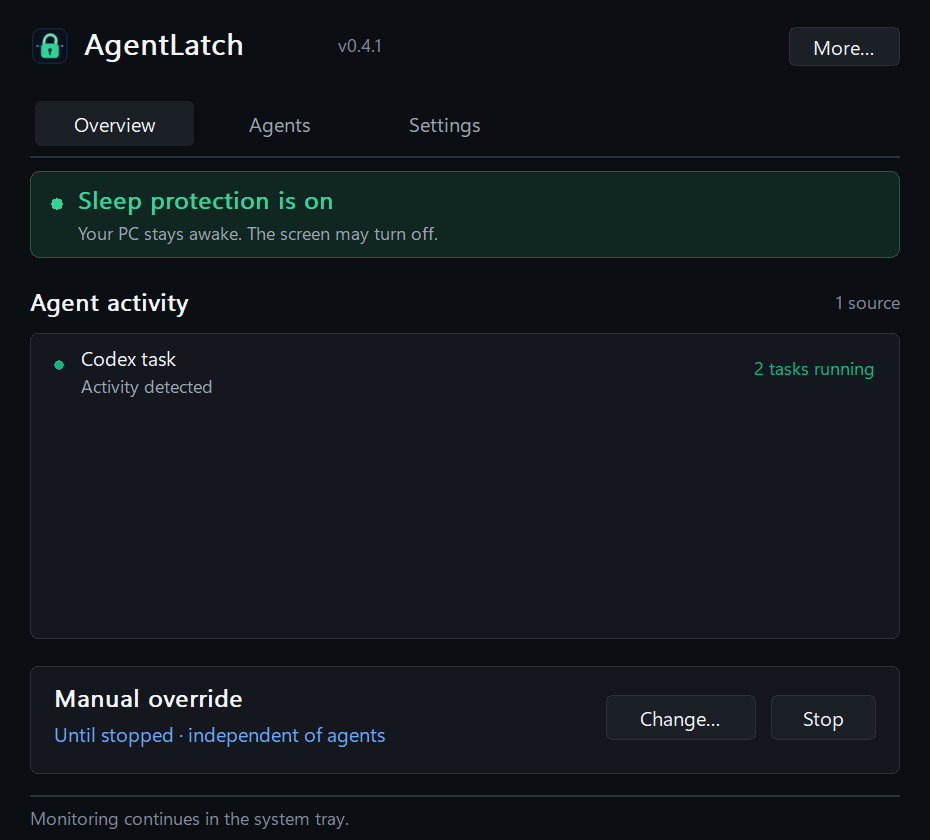
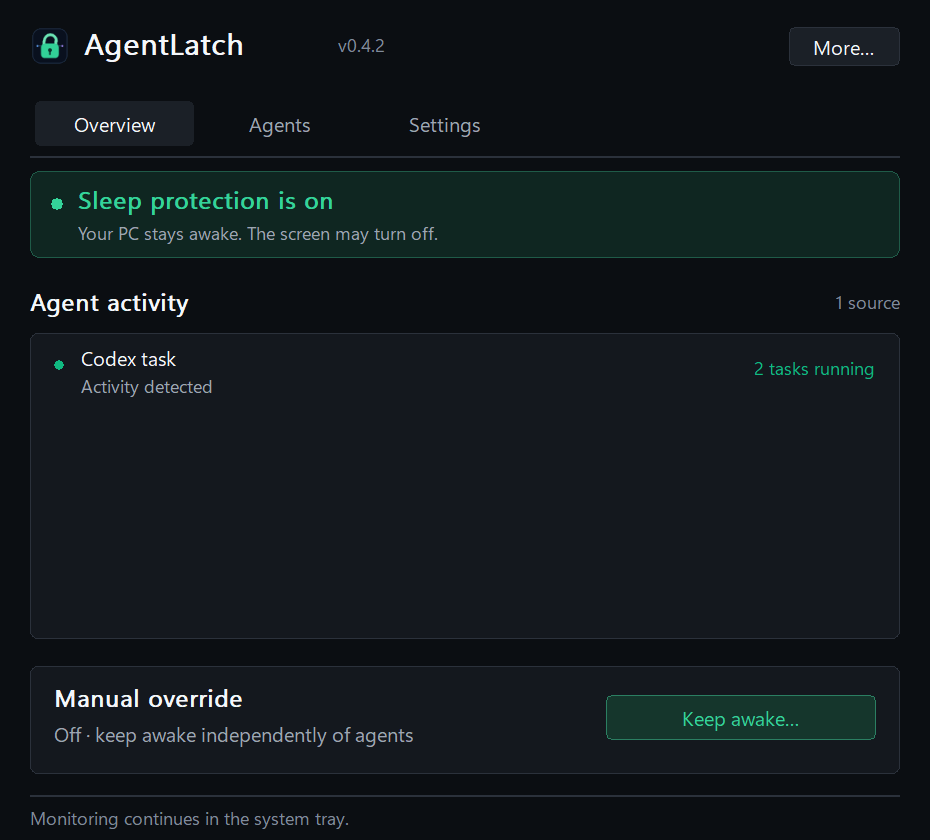
Reset manual override across Windows restarts (#15)

Changed region(s): [[0.0624, 0.8667, 0.4366, 0.8976], [0.686, 0.8048, 0.9043, 0.8976]]

diff --git a/src/settings.cpp b/src/settings.cpp
@@ -8,6 +8,8 @@ namespace agent_latch {
 namespace {
 
 constexpr wchar_t kSettingsKey[] = L"Software\\AgentLatch";
+constexpr wchar_t kManualSessionKey[] = L"ManualSession";
+constexpr wchar_t kManualSessionValue[] = L"UntilUtc";
 constexpr wchar_t kRunKey[] = L"Software\\Microsoft\\Windows\\CurrentVersion\\Run";
 constexpr wchar_t kRunValue[] = L"AgentLatch";
 
@@ -55,6 +57,8 @@ bool WriteDword(HKEY key, const wchar_t* name, DWORD value) {
 }  // namespace
 
 bool Settings::Load() {
+    manual_keep_awake = false;
+    manual_end_utc_milliseconds = 0;
     HKEY key = nullptr;
     const LSTATUS result = RegOpenKeyExW(HKEY_CURRENT_USER, kSettingsKey, 0, KEY_QUERY_VALUE, &key);
     if (result == ERROR_FILE_NOT_FOUND) {
@@ -69,11 +73,17 @@ bool Settings::Load() {
     ULONGLONG manual_value = 0;
     DWORD end_type = 0;
     DWORD end_size = sizeof(manual_value);
-    if (RegQueryValueExW(key, L"ManualKeepAwakeUntilUtc", nullptr, &end_type,
+    // Never restore the legacy permanent value: its boot cannot be established.
+    // A volatile child survives app restarts, but not a Windows restart/hive unload.
+    HKEY manual_key = nullptr;
+    const LSTATUS manual_result = RegOpenKeyExW(key, kManualSessionKey, 0, KEY_QUERY_VALUE, &manual_key);
+    if (manual_result == ERROR_SUCCESS &&
+        (RegQueryValueExW(manual_key, kManualSessionValue, nullptr, &end_type,
                         reinterpret_cast<BYTE*>(&manual_value), &end_size) != ERROR_SUCCESS ||
-        end_type != REG_QWORD || end_size != sizeof(manual_value)) {
+        end_type != REG_QWORD || end_size != sizeof(manual_value))) {
         manual_value = 0;
     }
+    if (manual_key != nullptr) { RegCloseKey(manual_key); }
     manual_keep_awake = manual_value != 0;
     manual_end_utc_milliseconds = manual_value > 1 ? manual_value : 0;
     codex_mode = ReadDetectionMode(key, L"ModeCodex", L"DetectCodex", codex_mode);
@@ -87,7 +97,7 @@ bool Settings::Load() {
     claude_integration_expected = ReadDword(key, L"IntegrationExpectedClaude", 0) != 0;
     claude_hook_seen = ReadDword(key, L"HookSeenClaude", 0) != 0;
     RegCloseKey(key);
-    return true;
+    return manual_result == ERROR_SUCCESS || manual_result == ERROR_FILE_NOT_FOUND;
 }
 
 bool Settings::Save() const {
@@ -99,7 +109,7 @@ bool Settings::Save() const {
             0,
             nullptr,
             REG_OPTION_NON_VOLATILE,
-            KEY_SET_VALUE,
+            KEY_SET_VALUE | KEY_CREATE_SUB_KEY,
             nullptr,
             &key,
             &disposition) != ERROR_SUCCESS) {
@@ -109,12 +119,21 @@ bool Settings::Save() const {
     bool result = true;
     result = WriteDword(key, L"KeepDisplayOn", keep_display_on ? 1u : 0u) && result;
     result = WriteDword(key, L"Notifications", notifications ? 1u : 0u) && result;
-    // One registry value avoids a crash between separate enabled/deadline writes.
-    // 0 = off, 1 = indefinite, otherwise an absolute FILETIME-epoch millisecond end.
+    // Keep the old permanent slot disabled, including for older app versions.
+    const ULONGLONG disabled = 0;
+    result = RegSetValueExW(key, L"ManualKeepAwakeUntilUtc", 0, REG_QWORD,
+        reinterpret_cast<const BYTE*>(&disabled), sizeof(disabled)) == ERROR_SUCCESS && result;
+    // One value avoids separate enabled/deadline writes. The volatile key, not a
+    // wall-clock/uptime heuristic or a shutdown callback, supplies restart reset.
     const ULONGLONG manual_value = !manual_keep_awake ? 0 :
         manual_end_utc_milliseconds == 0 ? 1 : manual_end_utc_milliseconds;
-    result = RegSetValueExW(key, L"ManualKeepAwakeUntilUtc", 0, REG_QWORD,
-        reinterpret_cast<const BYTE*>(&manual_value), sizeof(manual_value)) == ERROR_SUCCESS && result;
+    HKEY manual_key = nullptr;
+    if (RegCreateKeyExW(key, kManualSessionKey, 0, nullptr, REG_OPTION_VOLATILE,
+                        KEY_SET_VALUE, nullptr, &manual_key, nullptr) == ERROR_SUCCESS) {
+        result = RegSetValueExW(manual_key, kManualSessionValue, 0, REG_QWORD,
+            reinterpret_cast<const BYTE*>(&manual_value), sizeof(manual_value)) == ERROR_SUCCESS && result;
+        RegCloseKey(manual_key);
+    } else { result = false; }
     result = WriteDword(key, L"ModeCodex", static_cast<DWORD>(codex_mode)) && result;
     result = WriteDword(key, L"ModeClaude", static_cast<DWORD>(claude_mode)) && result;
     result = WriteDword(key, L"ModeCursor", static_cast<DWORD>(cursor_mode)) && result;
@@ -151,6 +170,84 @@ bool Settings::RefreshIntegrationStatus() {
     claude_hook_seen = ReadDword(key, L"HookSeenClaude", 0) != 0;
     RegCloseKey(key);
     return true;
+}
+
+bool RunSettingsSelfTests() {
+    // Redirect HKCU only in this self-test process. Never touch live app settings.
+    const std::wstring test_path = L"Software\\AgentLatch.SettingsTest." +
+        std::to_wstring(GetCurrentProcessId()) + L"." + std::to_wstring(GetTickCount64());
+    HKEY test_root = nullptr;
+    DWORD disposition = 0;
+    if (RegCreateKeyExW(HKEY_CURRENT_USER, test_path.c_str(), 0, nullptr,
+        REG_OPTION_NON_VOLATILE, KEY_ALL_ACCESS, nullptr, &test_root, &disposition) != ERROR_SUCCESS) { return false; }
+    if (disposition != REG_CREATED_NEW_KEY) { RegCloseKey(test_root); return false; }
+    if (RegOverridePredefKey(HKEY_CURRENT_USER, test_root) != ERROR_SUCCESS) {
+        RegCloseKey(test_root); RegDeleteTreeW(HKEY_CURRENT_USER, test_path.c_str()); return false;
+    }
+    const bool valid = []() {
+        HKEY key = nullptr;
+        if (RegCreateKeyExW(HKEY_CURRENT_USER, kSettingsKey, 0, nullptr, REG_OPTION_NON_VOLATILE,
+            KEY_ALL_ACCESS, nullptr, &key, nullptr) != ERROR_SUCCESS) { return false; }
+        const ULONGLONG legacy = 1;
+        bool success = RegSetValueExW(key, L"ManualKeepAwakeUntilUtc", 0, REG_QWORD,
+            reinterpret_cast<const BYTE*>(&legacy), sizeof(legacy)) == ERROR_SUCCESS;
+        RegCloseKey(key);
+        Settings original;
+        success = original.Load() && !original.manual_keep_awake && success;
+        original.manual_keep_awake = true;
+        original.claude_mode = DetectionMode::Off;
+        original.notifications = false;
+        success = original.Save() && success;
+        Settings app_restart;
+        success = app_restart.Load() && app_restart.manual_keep_awake &&
+            app_restart.manual_end_utc_milliseconds == 0 &&
+            app_restart.claude_mode == DetectionMode::Off && !app_restart.notifications && success;
+
+        HKEY manual_key = nullptr;
+        if (RegOpenKeyExW(HKEY_CURRENT_USER, L"Software\\AgentLatch\\ManualSession", 0,
+            KEY_ALL_ACCESS, &manual_key) != ERROR_SUCCESS) { return false; }
+        HKEY probe = nullptr;
+        // Windows rejects a nonvolatile child under a genuinely volatile key.
+        const LSTATUS probe_result = RegCreateKeyExW(manual_key, L"NonVolatileProbe", 0, nullptr,
+            REG_OPTION_NON_VOLATILE, KEY_SET_VALUE, nullptr, &probe, nullptr);
+        if (probe != nullptr) { RegCloseKey(probe); }
+        success = probe_result == ERROR_CHILD_MUST_BE_VOLATILE && success;
+        const DWORD malformed = 1;
+        success = RegSetValueExW(manual_key, kManualSessionValue, 0, REG_DWORD,
+            reinterpret_cast<const BYTE*>(&malformed), sizeof(malformed)) == ERROR_SUCCESS && success;
+        RegCloseKey(manual_key);
+        success = app_restart.Load() && !app_restart.manual_keep_awake && success;
+
+        original.manual_end_utc_milliseconds = 123456789;
+        success = original.Save() && app_restart.Load() && app_restart.manual_keep_awake &&
+            app_restart.manual_end_utc_milliseconds == original.manual_end_utc_milliseconds && success;
+        // Model Windows discarding only volatile session data, not preferences.
+        if (RegOpenKeyExW(HKEY_CURRENT_USER, kSettingsKey, 0, KEY_ALL_ACCESS, &key) != ERROR_SUCCESS) { return false; }
+        success = RegDeleteTreeW(key, kManualSessionKey) == ERROR_SUCCESS && success;
+        RegCloseKey(key);
+        success = app_restart.Load() && !app_restart.manual_keep_awake &&
+            app_restart.manual_end_utc_milliseconds == 0 &&
+            app_restart.claude_mode == DetectionMode::Off && !app_restart.notifications && success;
+        original.manual_end_utc_milliseconds = 0;
+        success = original.Save() && app_restart.Load() && app_restart.manual_keep_awake && success;
+        if (RegOpenKeyExW(HKEY_CURRENT_USER, kSettingsKey, 0, KEY_ALL_ACCESS, &key) != ERROR_SUCCESS) { return false; }
+        ULONGLONG legacy_disabled = 99;
+        DWORD legacy_size = sizeof(legacy_disabled);
+        success = RegGetValueW(key, nullptr, L"ManualKeepAwakeUntilUtc", RRF_RT_REG_QWORD, nullptr,
+            &legacy_disabled, &legacy_size) == ERROR_SUCCESS && legacy_disabled == 0 && success;
+        success = RegDeleteTreeW(key, kManualSessionKey) == ERROR_SUCCESS && success;
+        success = RegSetValueExW(key, L"ManualKeepAwakeUntilUtc", 0, REG_QWORD,
+            reinterpret_cast<const BYTE*>(&legacy), sizeof(legacy)) == ERROR_SUCCESS && success;
+        RegCloseKey(key);
+        success = app_restart.Load() && !app_restart.manual_keep_awake && success;
+        original.manual_keep_awake = false;
+        success = original.Save() && app_restart.Load() && !app_restart.manual_keep_awake && success;
+        return success;
+    }();
+    const bool restored = RegOverridePredefKey(HKEY_CURRENT_USER, nullptr) == ERROR_SUCCESS;
+    RegCloseKey(test_root);
+    const bool cleaned = restored && RegDeleteTreeW(HKEY_CURRENT_USER, test_path.c_str()) == ERROR_SUCCESS;
+    return valid && restored && cleaned;
 }
 
 bool Settings::MarkHookSeen(Provider provider) {

diff --git a/src/ui.cpp b/src/ui.cpp
@@ -98,7 +98,7 @@ std::wstring LatchSecondaryText(const Latch& latch, ULONGLONG now) {
         return L"Releasing in " + FormatDuration(latch.expires_at > now ? latch.expires_at - now : 0);
     }
     if (latch.kind == LatchKind::Manual) {
-        return L"Until stopped";
+        return L"Until Windows restarts";
     }
     if (latch.kind == LatchKind::Hook) {
         return latch.instance_count > 1 ? std::to_wstring(latch.instance_count) + L" active" : L"Active";
@@ -399,7 +399,7 @@ bool DashboardControls::Initialize(HWND parent, UINT dpi) {
         L"Keep the screen on while protected", L"Start AgentLatch when I sign in", L"Show status notifications"};
     const std::array<const wchar_t*, 3> hints = {
         L"Off lets the display turn off. Your PC still stays awake.",
-        L"Monitor agents and restore saved manual sessions at sign-in.",
+        L"Start monitoring automatically when you sign in.",
         L"Optional wake alerts. Protection failures always notify you."};
     for (int index = 0; index < 3; ++index) {
         const int top = 246 + index * 68;
@@ -527,7 +527,7 @@ void DashboardControls::Update(const DashboardState& state) {
     } else { detail = L"Normal sleep settings apply. Enabled agents are being monitored."; }
     TextValue(kStatusDetail, detail);
     TextValue(kManualStatus, !state_.manual_active ? L"Off · keep awake independently of agents" :
-        (state_.manual_deadline == 0 ? L"Until stopped" : FormatCountdown(state_.manual_deadline, state_.now)) +
+        (state_.manual_deadline == 0 ? L"Until Windows restarts" : FormatCountdown(state_.manual_deadline, state_.now)) +
             std::wstring(L" · independent of agents"));
     TextValue(kManualStart, state_.manual_active ? L"Change…" : L"Keep awake…");
     TextValue(kEmptyHint, state_.manual_active ? L"Manual override is keeping your PC awake." : L"Agent activity will appear here when detected.");

diff --git a/src/app.cpp b/src/app.cpp
@@ -410,7 +410,7 @@ void AgentLatchApp::StartManualSession(unsigned int hours) {
 void AgentLatchApp::ShowManualMenu() {
     HMENU menu = CreatePopupMenu();
     if (menu == nullptr) { return; }
-    AppendMenuW(menu, MF_STRING, 1, L"Until stopped");
+    AppendMenuW(menu, MF_STRING, 1, L"Until Windows restarts");
     AppendMenuW(menu, MF_SEPARATOR, 0, nullptr);
     constexpr std::array<unsigned int, 6> hours = {1, 2, 4, 8, 12, 24};
     for (unsigned int duration : hours) {

diff --git a/src/settings.h b/src/settings.h
@@ -45,5 +45,6 @@ const wchar_t* DetectionModeLabel(DetectionMode mode);
 
 bool IsStartWithWindowsEnabled();
 bool SetStartWithWindows(bool enabled, const std::wstring& executable_path);
+bool RunSettingsSelfTests();
 
 }  // namespace agent_latch

diff --git a/src/main.cpp b/src/main.cpp
@@ -349,6 +349,7 @@ bool RunDetectorGraceContractTests() {
 }
 
 int RunSelfTests(const std::wstring& snapshot_directory) {
+    if (!RunSettingsSelfTests()) { return 66; }
     if (!RunWakeSessionSelfTests()) {
         return 64;
     }

diff --git a/src/version.h b/src/version.h
@@ -1,7 +1,7 @@
 #pragma once
 
 #ifndef AGENTLATCH_VERSION
-#define AGENTLATCH_VERSION "0.4.1"
+#define AGENTLATCH_VERSION "0.4.2"
 #endif
 
 #define AGENTLATCH_WIDEN_IMPL(value) L##value

diff --git a/docs/ARCHITECTURE.md b/docs/ARCHITECTURE.md
@@ -67,7 +67,7 @@ The returning process cancels restart grace; current mode rules decide subsequen
 
 One reserved `manual:keep-awake` latch represents the dashboard/tray manual session. A zero-hour selection means explicit indefinite protection (`Manual` kind, no expiry). Timed selections accept 1–168 whole hours (`Timer` kind). A replacement resets this one manual session; Stop removes only it. Neither provider Off nor agent process disappearance affects a manual latch. The display setting applies equally to manual and automatic protection.
 
-During a running session, `GetTickCount64` supplies the fixed expiry and avoids wall-clock edits sliding the timer. The logical state holds enabled/indefinite status or an absolute UTC end in FILETIME-epoch milliseconds, serialized as the single registry value described below. Restoration computes remaining time, rejecting expired, malformed, or more-than-168-hour future deadlines; it never grants the original duration again. Exit clears the Windows request, not the saved manual choice. The next app launch/sign-in restores the choice if still applicable. A failed settings write is logged and shown to the user.
+During a running session, `GetTickCount64` supplies the fixed expiry and avoids wall-clock edits sliding the timer. The logical state holds enabled/unlimited status or an absolute UTC end in FILETIME-epoch milliseconds, serialized in volatile registry storage below. App-only restart restoration computes remaining time, rejecting expired, malformed, or more-than-168-hour future deadlines; it never grants the original duration again. Exit clears the Windows request, not that same-session choice. A Windows restart clears both timed and unlimited overrides. A failed settings write is logged and shown to the user.
 
 For a normal installed copy, the integration installer records that Claude lifecycle hooks are managed. In that state, Claude hooks are authoritative in **Tasks** mode and the generic Claude CLI activity result is suppressed. This prevents transient daemons, background PTY hosts, and resumed helper sessions from extending a latch after Claude has reported completion or its visible CLI has closed. **Open** mode deliberately continues to use process presence. A portable copy with no managed-hook status retains conservative CLI activity as a fallback.
 
@@ -97,7 +97,9 @@ AgentLatch assumes other processes running as the same signed-in user are within
 
 ## Persistence
 
-Small settings are stored under `HKCU\Software\AgentLatch`. The optional startup entry is stored under the current user's standard Windows Run key. Automatic, hook, external, and restart-grace latches are intentionally not persisted. The explicit manual state is one `REG_QWORD`, `ManualKeepAwakeUntilUtc`: 0 means Off, 1 means Until stopped, and higher values are an absolute FILETIME-epoch millisecond end. One value avoids an interrupted pair of writes accidentally changing the restoration mode. The state is reconstructed as one latch on launch. Dashboard/tray controls and the bounded `--keep-awake` / `--stop-keep-awake` CLI share this same state.
+Small settings are stored under `HKCU\Software\AgentLatch`. The optional startup entry is stored under the current user's standard Windows Run key. Automatic, hook, external, and restart-grace latches are intentionally not persisted. Manual state is one `REG_QWORD`, `ManualSession\UntilUtc`: 0 means Off, 1 means no clock deadline, and higher values are an absolute FILETIME-epoch millisecond end. The `ManualSession` child is created with `REG_OPTION_VOLATILE`, so it survives application handle/process closure but is discarded when Windows unloads the user hive, including a restart. This avoids wall-clock boot estimates and dependence on receiving shutdown callbacks. Sign-out/hive unload can also reset it; sleep/hibernate alone does not. See [Microsoft's volatile-key contract](https://learn.microsoft.com/en-us/windows/win32/api/winreg/nf-winreg-regcreatekeyexw).
+
+The former permanent `ManualKeepAwakeUntilUtc` value is never used for restoration, because its originating boot is unknown. Saves write that legacy slot as Off for rollback safety. This deliberately clears old-format manual restoration on upgrade; users must enable it once again. Ordinary preferences remain nonvolatile. One session value avoids an interrupted enabled/deadline pair. Dashboard/tray controls and the bounded manual CLI share this state. The settings self-test redirects HKCU only within its own process to an isolated subtree, checks that Windows rejects a nonvolatile child under the volatile key, and models removal of session storage for both timed/unlimited resets while retaining preferences. No actual Windows reboot is performed by self-tests.
 
 `%LOCALAPPDATA%\AgentLatch\diagnostics.log` stores privacy-safe state transitions, including detector release causes, restart-grace start/recovery/expiry, and manual session start/stop/expiry or persistence failure. It rotates to `diagnostics.previous.log` at 512 KiB, so total diagnostic history is bounded to roughly 1 MiB. The normal uninstaller removes both files and saved settings.
 

diff --git a/README.md b/README.md
@@ -39,7 +39,7 @@ The 620 × 560 logical-pixel window uses native Windows controls with consistent
 - **Task-first by default:** the unified OpenAI app's response state, Codex lifecycle records, and provider hooks track actual work; conservative CLI activity detection is the fallback.
 - **Open when you want it:** presence mode deliberately latches while the selected app or CLI is merely running.
 - **Restart-safe:** a protected agent disappearing gets a fixed ten-minute restart grace, covering brief app update/restart gaps without latching forever.
-- **Manual when you need it:** keep awake until stopped, choose a quick duration, or enter 1–168 hours. Manual protection is independent of agents and survives AgentLatch restarts.
+- **Manual when you need it:** keep awake until Windows restarts, choose a quick duration, or enter 1–168 hours. Manual protection survives app-only restarts but resets after a Windows restart.
 - **Transparent:** the dashboard shows exactly what is keeping the machine awake and why.
 - **Self-healing:** a zero-CPU watchdog restarts AgentLatch after an abnormal exit, with a bounded restart-loop guard.
 - **Verifiable:** the dashboard distinguishes a detected latch from a Windows-accepted sleep-protection request, and a local diagnostic history explains every transition.
@@ -61,13 +61,15 @@ In **Tasks** mode, opening an Electron app by itself never latches the computer.
 
 ## Manual keep-awake and overnight use
 
-On **Overview**, under **Manual keep-awake**, select **Keep awake…**, then **Until stopped**, a quick duration (1, 2, 4, 8, 12, or 24 hours), or **Custom hours…** (1–168 whole hours). The same controls are available from the tray menu. The countdown is the actual manual session time remaining—not an estimate of agent completion.
+On **Overview**, under **Manual override**, select **Keep awake…**, then **Until Windows restarts**, a quick duration (1, 2, 4, 8, 12, or 24 hours), or **Custom hours…** (1–168 whole hours). The same controls are available from the tray menu. The countdown is the actual manual session time remaining—not an estimate of agent completion.
 
 Manual protection stays active even if every agent closes or updates. **Change…** replaces the existing manual session; **Stop** cancels only manual protection, leaving agent monitoring and any other protection reasons running. Keeping the screen on remains an independent switch on **Settings**; it is not needed to keep the PC awake.
 
-The manual session is saved locally. Restarting AgentLatch restores an indefinite session or the remaining time until a timed session's original end; it never starts a fresh full-length timer. **Until stopped** also resumes at Windows sign-in if AgentLatch starts automatically. Choosing **Exit** releases protection while AgentLatch is not running, but does not erase the saved session. Use **Stop** to cancel it permanently.
+**Restarting Windows clears manual override**, including any remaining timed session. You must enable it again after restarting. Automatic agent monitoring still starts normally if launch at sign-in is enabled.
 
-For overnight work, choose a manual duration covering the night or **Until stopped**. Automatic restart grace covers only ten minutes, and an agent update can interrupt the agent's own work even when Windows stays awake. No mode prevents forced restarts, power loss, explicit Sleep/shutdown, or critical system actions.
+Restarting/updating only AgentLatch restores the manual session within the same Windows registry-hive lifetime; a timed session retains its original end instead of starting a fresh full-length timer. Choosing **Exit** releases protection while AgentLatch is not running, but does not erase that same-session choice. **Stop** cancels it. Sleep/hibernate alone does not unload this session state; signing out can also clear it when Windows unloads the user registry hive. Upgrading from the old permanent format intentionally starts manual override Off once, because the old value cannot establish which boot enabled it.
+
+For overnight work, choose a manual duration covering the night or **Until Windows restarts**. Automatic restart grace covers only ten minutes, and an agent update can interrupt the agent's own work even when Windows stays awake. No mode prevents forced restarts, power loss, explicit Sleep/shutdown, or critical system actions.
 
 ## Install
 
@@ -160,7 +162,7 @@ The x64 build script runs the executable's self-test before reporting success. C
 Build the setup executable after compiling AgentLatch:
 
 ```powershell
-.\scripts\build-installer.ps1 -Executable .\build-x64\Release\AgentLatch.exe -Version 0.4.1
+.\scripts\build-installer.ps1 -Executable .\build-x64\Release\AgentLatch.exe -Version 0.4.2
 ```
 
 ## Design principles

diff --git a/docs/INTERFACE.md b/docs/INTERFACE.md
@@ -6,7 +6,7 @@ AgentLatch 0.4 is activity-first: compact navigation and protection status, five
 
 The protection summary stays visible on every tab, without a redundant status badge. **Ready when your agents are** means normal Windows idle-sleep policy applies; **Sleep protection is on** means Windows accepted AgentLatch's system power request; **Sleep protection needs attention** means a failed request is being retried. READY/PROTECTED/ERROR remain the tray/diagnostic terms. Accepted protection is not a guarantee against explicit Sleep, a forced restart, critical system policy, or power loss.
 
-Use **Keep awake…** in the bottom **Manual override** strip to choose Until stopped, a quick hour preset, or 1–168 custom hours. An active session shows its real remaining time or Until stopped. **Change…** replaces only that session. **Stop** leaves agent tracking and other reasons alone. Saved sessions restore across app restarts; timers retain their original end.
+Use **Keep awake…** in the bottom **Manual override** strip to choose **Until Windows restarts**, a quick hour preset, or 1–168 custom hours. An active session shows its real remaining time or Until Windows restarts. **Change…** replaces only that session. **Stop** leaves agent tracking and other reasons alone. Both timed and unlimited manual overrides reset after restarting Windows; enable them again when needed. App-only restarts/updates preserve the same-session choice and original timer end. Signing out can also clear it when Windows unloads the user registry hive; ordinary sleep/hibernate does not. Legacy permanent manual settings are not restored on upgrade.
 
 Cancel, Escape, or the custom-hours dialog's close button leaves the existing session unchanged.
 
@@ -33,7 +33,7 @@ These map to `Tasks`, `Open`, and `Off` internally. A protected provider disappe
 ## Settings
 
 - **Keep the screen on while protected:** affects the display request, not whether the PC itself stays awake.
-- **Start AgentLatch when I sign in:** starts monitoring and restores a saved manual session after sign-in.
+- **Start AgentLatch when I sign in:** starts agent monitoring automatically. Manual override remains Off after a Windows restart until you enable it again.
 - **Show status notifications:** controls routine wake-state alerts. Protection failures still alert.
 
 Each preference is a whole-label native checkbox styled as a dark switch, with an explicit On/Off label. Native checked state, keyboard activation and accessibility are retained. **Diagnostic history** opens the local bounded log. **Repair integrations…** is an intentional maintenance action, not a required first-run setup step. Neither action runs just by visiting Settings.
@@ -42,7 +42,7 @@ Each preference is a whole-label native checkbox styled as a dark switch, with a
 
 ## Keyboard and tray behavior
 
-Use Tab/Shift+Tab between native controls, Ctrl+Tab/Ctrl+Shift+Tab between pages, arrow keys on tabs/dropdowns/lists, Space for checkboxes, and Enter/Space for focused buttons. Focus indicators are visible. Closing the main window keeps monitoring in the tray; More… → Exit ends the process and its current power request, while preserving the saved manual choice for a later launch.
+Use Tab/Shift+Tab between native controls, Ctrl+Tab/Ctrl+Shift+Tab between pages, arrow keys on tabs/dropdowns/lists, Space for checkboxes, and Enter/Space for focused buttons. Focus indicators are visible. Closing the main window keeps monitoring in the tray; More… → Exit ends the process and its current power request, while preserving the manual choice only for a later launch within the same Windows session.
 
 The preferred client size is 620 × 560 logical pixels. Native controls and typography scale with Windows DPI. There are no main-window or activity-list scrollbars; the list uses bounded pages instead. Keyboard focus indicators, disabled pager states, and button hover/press feedback remain visible.
 

diff --git a/docs/PRIVACY.md b/docs/PRIVACY.md
@@ -16,7 +16,7 @@ Codex session blocks, OpenAI composer metadata, and hook input are processed in 
 
 ## Data AgentLatch stores
 
-Settings and integration-health markers are stored in `HKCU\Software\AgentLatch`, including whether manual keep-awake is Off, Until stopped, or timed with an absolute UTC end. This allows restoration across app restarts without storing any agent content. Stopping manual protection clears the saved active session; uninstalling removes AgentLatch settings. If enabled, Windows startup stores the executable path in the current user's Run key. The integration installer writes AgentLatch commands into provider-owned JSON files and creates timestamped backup copies beside changed files. Those backups preserve the provider configuration as it existed before AgentLatch changed it and remain under the user's profile until the user removes them.
+Settings and integration-health markers are stored in `HKCU\Software\AgentLatch`. Manual keep-awake uses the volatile `ManualSession` subkey: Off, no clock deadline (Until Windows restarts), or an absolute UTC timer end. It survives app-only restarts without storing agent content, but Windows restart/user-hive unload clears it; ordinary preferences remain persistent. The old permanent manual value is ignored and written Off on saves. Stopping manual protection clears the saved active session; uninstalling removes AgentLatch settings. If enabled, Windows startup stores the executable path in the current user's Run key. The integration installer writes AgentLatch commands into provider-owned JSON files and creates timestamped backup copies beside changed files. Those backups preserve the provider configuration as it existed before AgentLatch changed it and remain under the user's profile until the user removes them.
 
 AgentLatch keeps a bounded local diagnostic history at `%LOCALAPPDATA%\AgentLatch\diagnostics.log`, with one rotated `diagnostics.previous.log`. Each file is limited to 512 KiB. Records contain UTC timestamps, AgentLatch version and process ID, active latch counts and provider names, power-request desired/accepted state and Windows error codes, watchdog restart outcomes, detector release causes, restart-grace transitions, and manual session mode/duration/start/stop/expiry or settings-save failures. They do not contain latch IDs, workspace paths, prompts, responses, terminal output, source content, or conversation data. The normal uninstaller removes both logs.
 

diff --git a/CONTRIBUTING.md b/CONTRIBUTING.md
@@ -30,6 +30,8 @@ It also covers fixed restart deadlines, repeated missing scans, provider return,
 
 `AgentLatch.exe --self-test --test-render-dir <absolute-directory>` adds 90 PNG render fixtures for timed, indefinite, idle, error, long-list, and mixed four-source states across the five DPI scales. Review representative renders visually as well as running structural tests; a passing bounds check does not establish good visual hierarchy or usability. Fixtures use test state and must not be presented as live-provider evidence. Documentation images instead come from the running app's state through `scripts/capture-dashboard.ps1`, without desktop capture or input/focus changes.
 
+Settings regressions use a temporary registry subtree and process-local HKCU redirection, not the installed app's configuration. They verify actual volatile-key creation, same-session app reload, modeled Windows session-storage removal for both timed/unlimited overrides, original-deadline preservation, legacy/malformed value rejection, explicit Stop, and retention of ordinary preferences. These tests never reboot Windows; they test the storage boundary and the documented volatile-key contract.
+
 For documentation, run `scripts/capture-dashboard.ps1 -AgentLatchPath <installed-exe> -OutputDirectory <directory>`. It asks the running app to export its current state as three full-resolution PNGs without any desktop control, focus change, visible tab switch, or desktop screenshot. Review labels/settings before publishing; keep live-state exports distinct from synthetic test fixtures. See [Interface guide](docs/INTERFACE.md).
 
 ## Pull requests

diff --git a/docs/INTEGRATIONS.md b/docs/INTEGRATIONS.md
@@ -143,7 +143,7 @@ On the **Agents** tab, explicit **Tasks only**, **While open**, and **Off** drop
 - A stop event releases its matching hook session or subagent immediately. Releasing the final provider hook adds five seconds of settling grace so a SessionEnd arriving just before updater-driven process removal cannot briefly drop protection. An independent detector, restart grace, or manual session may continue holding protection.
 - A missing stop event cannot keep the computer awake forever: the TTL eventually releases it.
 - Disabling a provider in the dashboard removes that provider's automatic and hook latches immediately.
-- Manual keep-awake is independent of provider integration and Off settings. Select Until stopped or 1–168 hours from the dashboard or tray; Stop cancels only the manual session. Its explicit saved choice survives app restarts, while automatic leases do not.
+- Manual keep-awake is independent of provider integration and Off settings. Select **Until Windows restarts** or 1–168 hours from the dashboard or tray; Stop cancels only the manual session. Both timed/unlimited overrides reset after a Windows restart. App-only restarts/updates preserve the same-session choice, while automatic leases do not. The CLI's `--indefinite` option still means no clock deadline, not survival across a Windows restart.
 
 ## Diagnosing a missed latch or sleep
 
